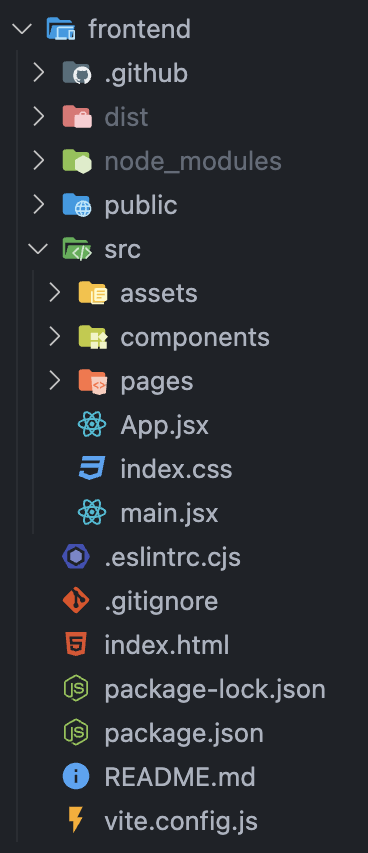
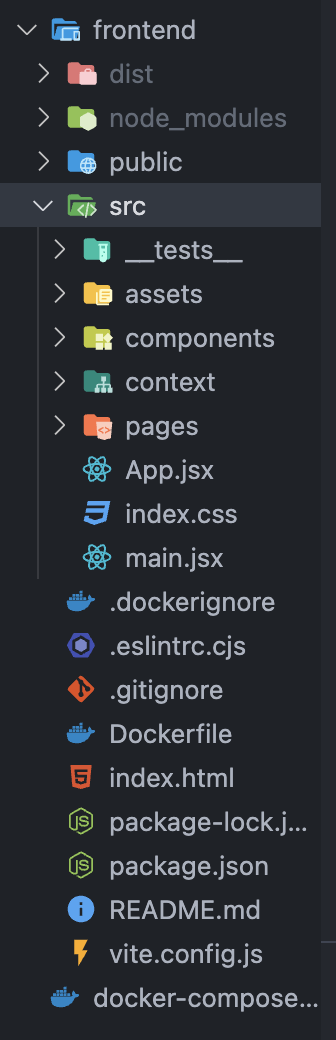
Update Development.md with new folder structures

Changed region(s): [[0.0, 0.0, 0.9524, 1.0], [0.5357, 0.0914, 0.8631, 0.1219], [0.0595, 0.0305, 0.0893, 0.061]]

diff --git a/Documentation/Development.md b/Documentation/Development.md
@@ -71,42 +71,6 @@
      `npm install`
 
 
-### Frontend File Structure
-
-<img src="./pictures/frontend-structure.png" width="150"></img>
-- public
-    - Holds files like images and HTML that you want to include directly in your project without them being processed during the build.
-- assets
-    - Holds static assets like images, icons and css styles that are used in the app.
-- components
-    - Holds react components used in the app.
-- pages
-    - Holds main components that represent a single page, such as home, login, signup, etc.
-
-### Backend File Structure
-
-<img src="./pictures/backend-structure.png" width="150"></img>
-
-- controllers 
-    -  Holds files which are responsible for handling HTTP requests, connecting to the database and managing the interaction between the server and the database.
-
-- models 
-    - Holds each model in the database.
-
-- prisma 
-    - Holds a file that define all the models for the database.
-
-- .env
-    - Holds local database string with username and password
-
-- routes
-    - Holds files of each routes of the application.
-
-- views
-    - Holds temporary view templates for testing routes on the server side.
-
-- app.js
-    - Main file that runs the application.
 
 ### Database setup
 
@@ -145,4 +109,49 @@
 
     `npm run dev`
 - Follow the link provided in the terminal or copy and paste it in your browser.
+
+### Frontend File Structure
+
+<img src="./pictures/frontend-structure.png" width="150"></img>
+- public
+    - Contains files like images and HTML that you want to include directly in your project without them being processed during the build.
+
+- tests
+    - Contains unit test for the frontend
+
+- assets
+    - Contains static assets like images, icons and css styles that are used in the app.
+- components
+    - Contains react components used in the app.
+- context
+    - Contains Components that serve as data providers throughout the app
+- pages
+    - Contains main components that represent a single page, such as home, login, signup, etc.
+
+### Backend File Structure
+
+<img src="./pictures/backend-structure.png" width="150"></img>
+- tests
+    - Contains unit test for the backend
+    
+- controllers 
+    -  Holds files which are responsible for handling HTTP requests, connecting to the database and managing the interaction between the server and the database.
+
+- models 
+    - Holds each model in the database.
+
+- prisma 
+    - Holds a file that define all the models for the database.
+
+- .env
+    - Holds local database string with username and password
+
+- routes
+    - Holds files of each routes of the application.
+
+- views
+    - Holds temporary view templates for testing routes on the server side.
+
+- app.js
+    - Main file that runs the application.
 
